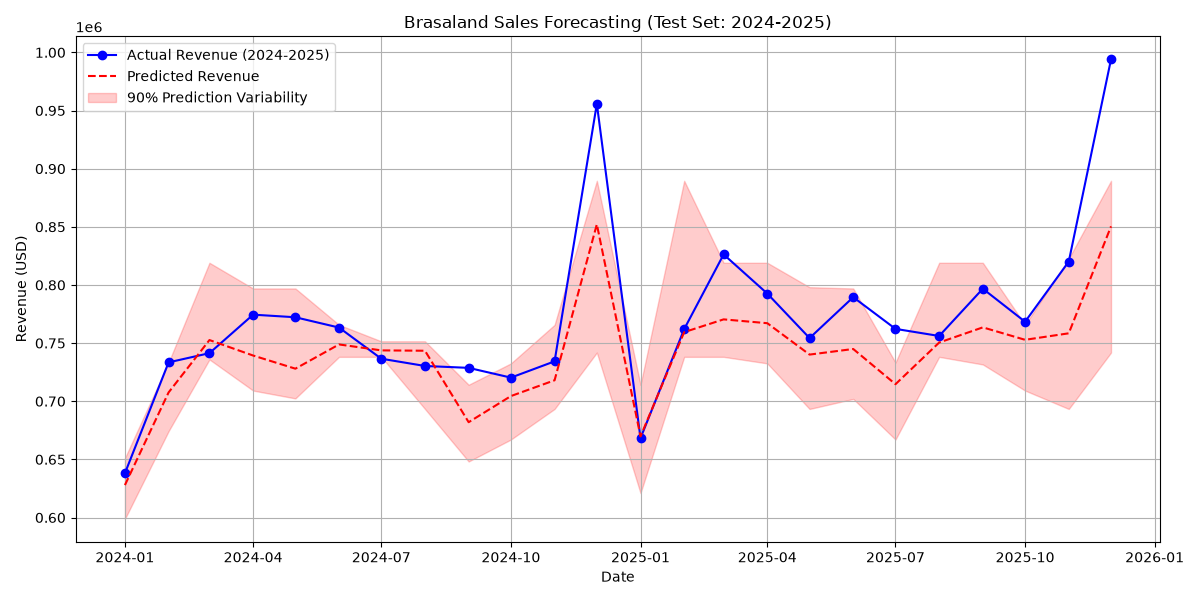
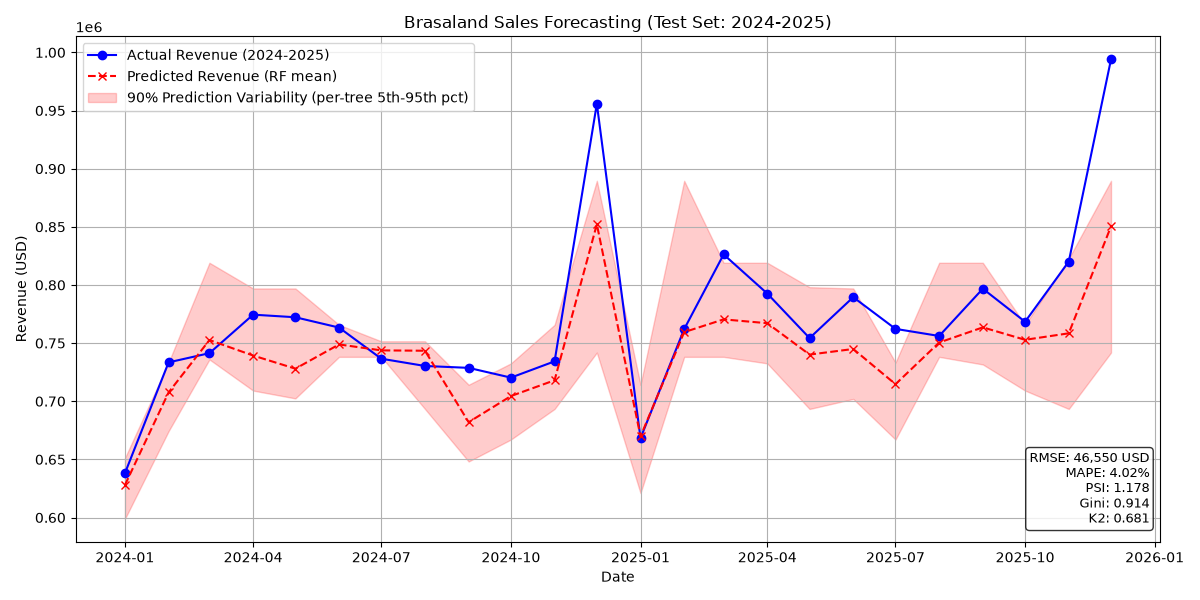
Enhance forecast visualization: clearer variability band + metrics box
- plot_forecast: label band as per-tree 5th-95th pct, mark RF-mean prediction,
  optional metrics annotation (RMSE/MAPE/PSI/Gini/K2)
- main: pass metrics to the plot; regenerate figure

Changed region(s): [[0.8325, 0.72, 0.9558, 0.9], [0.2158, 0.12, 0.4008, 0.18], [0.2775, 0.06, 0.4008, 0.09]]

diff --git a/src/app.py b/src/app.py
@@ -299,8 +299,16 @@ def evaluate(model, X_test, y_test, y_train) -> dict:
 # ==========================================
 # 4. VISUALIZATION (PREDICTIONS + VARIABILITY)
 # ==========================================
-def plot_forecast(model, test_df, X_test, y_test, y_pred, path: Path = FIGURE_PATH):
-    """Plot actual vs predicted revenue with a 90% per-tree variability band."""
+def plot_forecast(
+    model, test_df, X_test, y_test, y_pred, path: Path = FIGURE_PATH, metrics=None
+):
+    """Plot the model's prediction and its 90% variability area vs the real data.
+
+    The variability area is the 5th-95th percentile band of the individual tree
+    predictions (a Random-Forest prediction interval), drawn against the actual
+    revenue of the 2 test years. If `metrics` is provided, a small summary box
+    is annotated on the chart.
+    """
     # Extract predictions from all trees to build the variability band.
     tree_preds = np.array(
         [tree.predict(X_test.values) for tree in model.estimators_]
@@ -319,9 +327,10 @@ def plot_forecast(model, test_df, X_test, y_test, y_pred, path: Path = FIGURE_PA
     plt.plot(
         test_df["month"],
         y_pred,
-        label="Predicted Revenue",
+        label="Predicted Revenue (RF mean)",
         color="red",
         linestyle="--",
+        marker="x",
     )
     plt.fill_between(
         test_df["month"],
@@ -329,14 +338,34 @@ def plot_forecast(model, test_df, X_test, y_test, y_pred, path: Path = FIGURE_PA
         upper_bound,
         color="red",
         alpha=0.2,
-        label="90% Prediction Variability",
+        label="90% Prediction Variability (per-tree 5th-95th pct)",
     )
 
     plt.title("Brasaland Sales Forecasting (Test Set: 2024-2025)")
     plt.xlabel("Date")
     plt.ylabel("Revenue (USD)")
-    plt.legend()
+    plt.legend(loc="upper left")
     plt.grid(True)
+
+    if metrics is not None:
+        summary = (
+            f"RMSE: {metrics['rmse']:,.0f} USD\n"
+            f"MAPE: {metrics['mape']:.2f}%\n"
+            f"PSI: {metrics['psi']:.3f}\n"
+            f"Gini: {metrics['gini']:.3f}\n"
+            f"K2: {metrics['k2_tau']:.3f}"
+        )
+        plt.gca().text(
+            0.99,
+            0.03,
+            summary,
+            transform=plt.gca().transAxes,
+            ha="right",
+            va="bottom",
+            fontsize=9,
+            bbox={"boxstyle": "round", "facecolor": "white", "alpha": 0.8},
+        )
+
     plt.tight_layout()
 
     path.parent.mkdir(parents=True, exist_ok=True)
@@ -388,7 +417,9 @@ def main() -> None:
     print(f"Gini: {results['gini']:.4f}")
     print(f"K2 Score (Kendall Tau proxy): {results['k2_tau']:.4f}")
 
-    figure_path = plot_forecast(model, test_df, X_test, y_test, y_pred)
+    figure_path = plot_forecast(
+        model, test_df, X_test, y_test, y_pred, metrics=results
+    )
     print(f"Saved forecast plot to {figure_path}")
 
 
